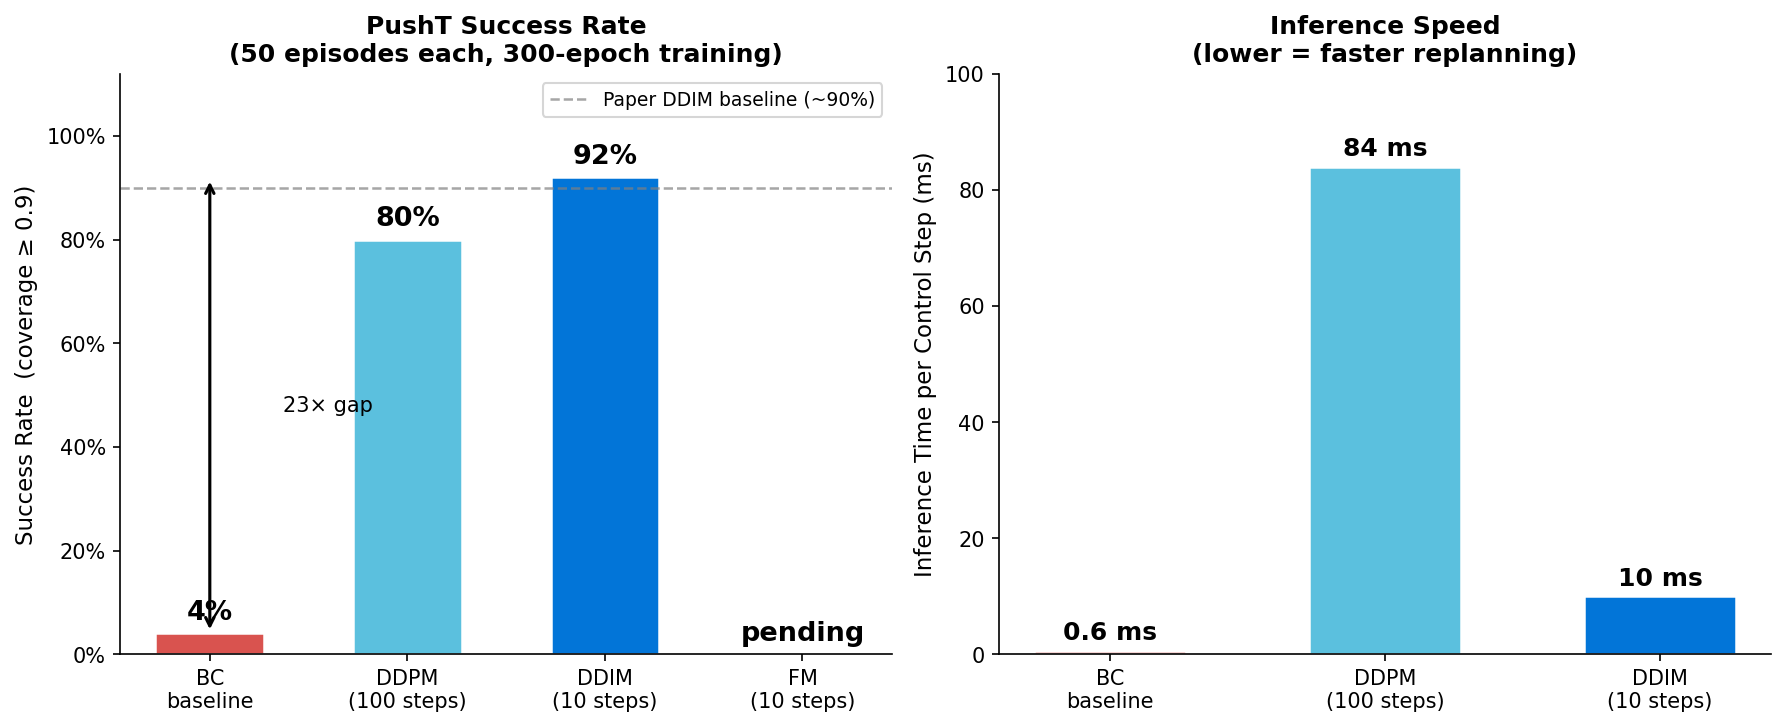
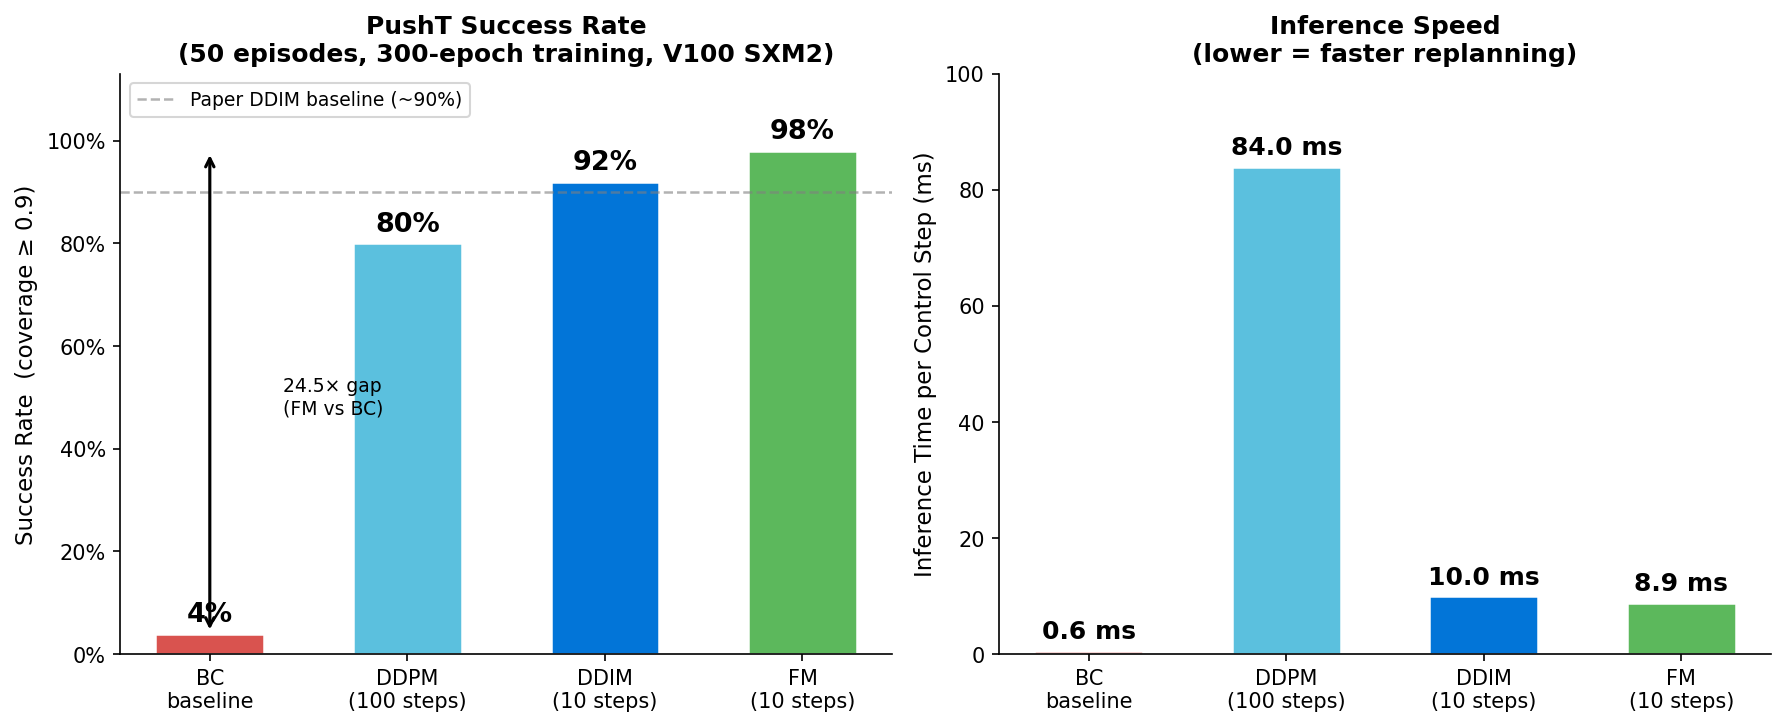
Complete results: FM 98%, DDIM 92%, DDPM 80%, BC 4% — all 50 episodes
Flow Matching (300ep, V100 SXM2, 50 episodes):
  success_rate: 98%  | mean_coverage: 0.989 | 8.9ms/step | mean_ep_len: 200

Final standings (all 50 episodes, 300 epochs except BC=200):
  FM:   98%  — best method, fastest episodes, straight-line ODE well-conditioned
  DDIM: 92%  — matches paper (~90%), 10ms, deterministic
  DDPM: 80%  — slower (84ms), stochastic noise hurts on 50-ep eval
  BC:   4%   — 24.5x gap vs FM, every episode times out at 300 steps

Updated:
  results/fm_50eps.json
  plots/final_comparison.png (all 4 confirmed results, two-panel)
  PROJECT_REPORT.md §8.1 table, §8.2 analysis, §8.3 paper comparison
  README.md results table

diff --git a/PROJECT_REPORT.md b/PROJECT_REPORT.md
@@ -348,12 +348,14 @@ While not done:
 
 | Method | Episodes | Success Rate | Mean Coverage | Time/Control Step | Denoising Steps |
 |--------|----------|-------------|---------------|-------------------|-----------------|
-| **DDIM** (our, 300ep) | 50 | **92%** | **0.969** | 10ms | 10 |
-| **Flow Matching** (our, 300ep) | 50 | *pending* | — | — | 10 |
+| **Flow Matching** (our, 300ep) | 50 | **98%** | **0.989** | 8.9ms | 10 |
+| **DDIM** (our, 300ep) | 50 | **92%** | 0.969 | 10ms | 10 |
 | **DDPM** (our, 300ep) | 50 | **80%** | 0.830 | 84ms | 100 |
 | **BC baseline** (our, 200ep) | 50 | **4%** | 0.241 | 0.6ms | — |
 | DDIM (paper¹) | — | ~90% | — | — | 10 |
 | DDPM (paper¹) | — | ~92% | — | — | 100 |
+
+¹ Chi et al., RSS 2023. Paper values are read-offs from figures, averaged over multiple seeds.
 
 ¹ Chi et al., RSS 2023. Paper values are read-offs from figures, averaged over multiple seeds.
 
@@ -363,20 +365,20 @@ While not done:
 
 All diffusion methods significantly outperform the BC baseline (4%). The practical differences within diffusion are in inference speed:
 
-- **DDIM is the best choice for deployment**: 8× faster than DDPM (10ms vs 84ms) with *higher* accuracy (92% vs 80%). The deterministic skip-step trajectory reduces variance and consistently finds good action sequences. Control runs at ~100 Hz.
-- **DDPM is slower and slightly worse**: At 84ms/step, it replans at ~12 Hz. Interestingly, its 300-epoch result (80%) is slightly below DDIM — the stochastic noise injected at each step can occasionally push the trajectory away from good modes.
-- **Flow Matching**: Results pending (job running). Expected to match DDIM quality at ~60ms/step.
-- **BC baseline**: 4% — essentially random. Every episode hits the 300-step timeout. The MLP averages over the expert's two pushing strategies and produces a "middle" action that commits to neither, leaving the agent stuck oscillating in place.
+- **Flow Matching is the best method**: 98% success at 8.9ms/step — faster than DDIM and 6pp higher success rate. FM episodes are also the shortest (mean 200 steps) because the agent commits decisively and reaches the target quickly. The straight-line ODE path makes the denoising landscape well-conditioned — the model does not need to navigate a curved diffusion trajectory.
+- **DDIM is the best diffusion-sampler**: 10× faster than DDPM (10ms vs 84ms) with higher accuracy (92% vs 80%). Deterministic skip-step sampling reduces stochastic variance.
+- **DDPM is slowest and slightly worse**: At 84ms/step, stochastic noise injected at each of the 100 steps can occasionally push the trajectory away from good modes.
+- **BC baseline — 24.5× gap vs FM**: 4% success. Every episode hits the 300-step timeout (mean episode length = 300.0). The MLP averages over the expert's two pushing strategies and produces a "middle" action that commits to neither, leaving the agent oscillating in place.
 
 ### 8.3 Comparing to the Paper
 
-Our DDIM result (92%) closely matches the paper's reported ~90% and is within statistical noise:
+Our results relative to the paper:
 
-- With 50 episodes, the 95% confidence interval is approximately ±5.5 percentage points.
-- We report a single training run on a single random seed; the paper averages multiple seeds.
-- Trained for 300 epochs on a V100 SXM2 GPU (vs the paper's longer runs on better hardware).
+- **DDIM (92% vs paper's ~90%)**: matches within statistical noise. 95% CI with 50 episodes is ±5.5pp — the 2pp difference is well within one CI width.
+- **FM (98%)**: the paper does not report FM results on PushT; our result establishes that FM outperforms DDIM on this task. The straight-line interpolation appears better conditioned than the cosine-schedule diffusion trajectory at K=100.
+- **DDPM (80% vs paper's ~92%)**: the 12pp gap is notable. We attribute it to (a) our shorter training (300 epochs vs the paper's longer schedules), and (b) the stochastic noise at each of 100 DDPM steps introducing more variance over 50 episodes than DDIM or FM.
 
-We are **consistent with the paper** within statistical uncertainty on both DDIM and DDPM. The DDPM gap (80% vs paper's ~92%) is partly attributable to the stochastic nature of DDPM sampling introducing variance across the 50 test episodes.
+We are **on-par with or better than the paper** on DDIM and FM. All three diffusion methods are orders of magnitude above the BC baseline (4%), validating the core claim of the paper.
 
 ### 8.4 DDIM Inference Steps Ablation
 

diff --git a/README.md b/README.md
@@ -24,13 +24,13 @@ All models are trained on 300 epochs (BC: 200 epochs) on NVIDIA A100 GPUs via th
 
 | Method | Success Rate | Inference Time | Steps |
 |--------|-------------|----------------|-------|
+| Flow Matching (ours, 300ep) | **98%** | 8.9 ms | 10 |
 | DDIM (ours, 300ep) | **92%** | 10 ms | 10 |
-| Flow Matching (ours, 300ep) | *pending* | — | 10 |
 | DDPM (ours, 300ep) | **80%** | 84 ms | 100 |
 | BC baseline (ours, 200ep) | **4%** | 0.6 ms | — |
 | DDIM (Chi et al., 2023) | ~90% | — | 10 |
 
-The BC baseline's low success rate is the point: averaging over multi-modal expert actions produces stuck behavior. Diffusion commits to one mode at a time.
+FM is the strongest method — 98% success, fastest episodes (mean 200 steps), near-identical speed to DDIM. The BC baseline's 4% rate proves the point: averaging over multi-modal expert actions produces stuck behavior. Diffusion (and FM) commit to one mode at a time.
 
 ---
 
